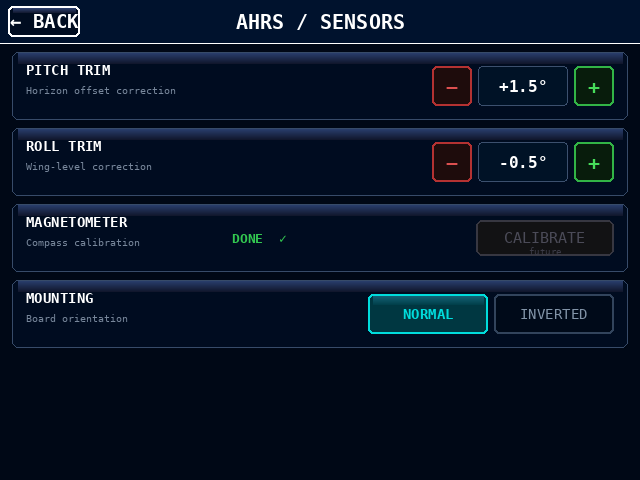
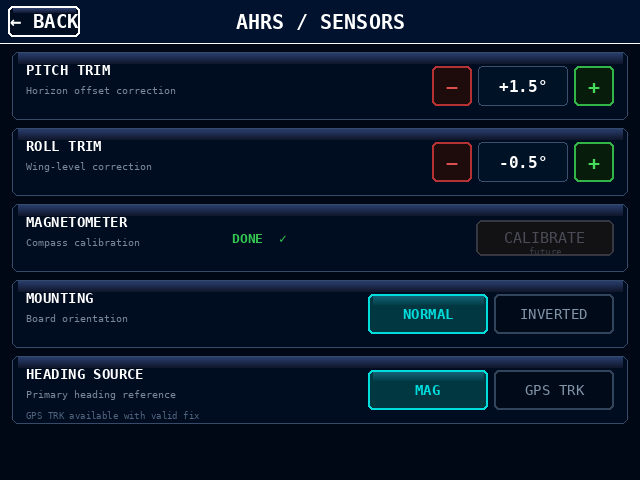
Add stale-data timeout and GPS-slaved heading source
Stale-data timeout (STALE_TIMEOUT_S = 3 s):
- Track _link_lost_t in main loop; when NO LINK persists beyond
  STALE_TIMEOUT_S the data_stale flag is raised.
- render() overrides ahrs_ok=False when data_stale, causing the AI and
  heading strip to receive the AHRS FAIL red-X treatment.
- On reconnect, _link_lost_t is cleared immediately.

GPS-slaved heading source (AHRS / Sensors screen → HEADING SOURCE):
- disp["ss"]["hdg_src"]: "mag" (default) or "gps"
- New Row 4 in draw_ahrs_setup / ahrs_setup_hit with MAG / GPS TRK
  segment buttons and a note that GPS TRK requires a valid fix.
- In render(), hdg = disp["track"] when hdg_src=="gps" and gps_ok,
  otherwise disp["yaw"].
- draw_heading_tape: GPS TRK mode suppresses the magenta track pointer
  (hdg IS track) and shows a cyan two-line readout ("133°" + "TRK").
- draw_status_badges: GPS TRK shows a dim cyan "GPS TRK" badge on the
  right when the mode is active and GPS has a fix.

Preview updates:
- preview_setup_ahrs.png regenerated with hdg_src field
- New preview_setup_ahrs_gpstrk.png — AHRS screen with GPS TRK selected
- New preview_gps_trk_mode.png — PFD with GPS TRK active (cyan box, badge)

https://claude.ai/code/session_017SH8gTHM3ctk1qfSPqffyG

Changed region(s): [[0.0312, 0.7188, 1.0, 0.875]]

diff --git a/pi_display/pfd.py b/pi_display/pfd.py
@@ -109,6 +109,7 @@ disp["ds"] = {                      # display settings
 disp["ss"] = {                      # AHRS / sensor settings
     "pitch_trim": 0.0, "roll_trim": 0.0,
     "mag_cal":    "idle", "mounting": "normal",
+    "hdg_src":    "mag",   # "mag" | "gps"  — heading source (magnetic or GPS track)
 }
 disp["cs"] = {                      # connectivity settings
     "ahrs_url":  PICO_URL, "wifi_ssid": "AHRS-Link",
@@ -119,7 +120,8 @@ disp["cs"] = {                      # connectivity settings
 SMOOTH_K = 0.25   # IIR coefficient (higher = faster response)
 
 # ── Module-level SSE handle (set in main, restarted by handle_event) ─────────
-_sse_client = None
+_sse_client  = None
+_link_lost_t = None   # monotonic timestamp when link first dropped (None if connected)
 
 
 # ── Connectivity helpers ──────────────────────────────────────────────────────
@@ -957,8 +959,13 @@ _CARDINALS = {0: "N", 45: "NE", 90: "E", 135: "SE",
               180: "S", 225: "SW", 270: "W", 315: "NW"}
 
 
-def draw_heading_tape(surf, hdg, hdg_bug=None, track=None, gps_ok=False):
-    """Bottom heading strip with bug and current-heading box."""
+def draw_heading_tape(surf, hdg, hdg_bug=None, track=None, gps_ok=False, hdg_src="mag"):
+    """Bottom heading strip with bug and current-heading box.
+
+    hdg_src="gps" means hdg is already the GPS track value; the magenta track
+    pointer is suppressed (it would just sit at centre) and the readout box
+    shows a small "TRK" sub-label instead of "MAG".
+    """
     hdg_surf = pygame.Surface((DISPLAY_W, HDG_H), pygame.SRCALPHA)
     hdg_surf.fill((0, 8, 22, 210))
     surf.blit(hdg_surf, (0, HDG_Y))
@@ -992,8 +999,9 @@ def draw_heading_tape(surf, hdg, hdg_bug=None, track=None, gps_ok=False):
         pygame.gfxdraw.filled_polygon(surf, bug, CYAN)
         pygame.gfxdraw.aapolygon(surf, bug, CYAN)
 
-    # GPS track pointer (magenta, when GPS OK)
-    if gps_ok and track is not None:
+    # GPS track pointer (magenta, when GPS OK and heading source is MAG)
+    # Suppressed in GPS TRK mode — hdg is already the track value.
+    if gps_ok and track is not None and hdg_src != "gps":
         off = ((track - hdg + 180) % 360) - 180
         tx = int(CX + off * PX_PER_DEG)
         if 0 < tx < DISPLAY_W:
@@ -1015,8 +1023,14 @@ def draw_heading_tape(surf, hdg, hdg_bug=None, track=None, gps_ok=False):
                       (tx,      by2 + bh),
                       (bx,      by2 + bh)], {0, 1, 2, 6})
     pygame.gfxdraw.filled_polygon(surf, pts_h, (0, 0, 0))
-    pygame.gfxdraw.aapolygon(surf, pts_h, WHITE)
-    _text(surf, f"{round(hdg) % 360:03d}\u00b0", 17, WHITE, cx=CX, cy=by2 + bh // 2)
+    pygame.gfxdraw.aapolygon(surf, pts_h, WHITE if hdg_src == "mag" else CYAN)
+    if hdg_src == "gps":
+        # Two-line readout: heading value + "TRK" sub-label in cyan
+        _text(surf, f"{round(hdg) % 360:03d}\u00b0", 14, CYAN, bold=True,
+              cx=CX, cy=by2 + 8)
+        _text(surf, "TRK", 8, CYAN, cx=CX, cy=by2 + bh - 4)
+    else:
+        _text(surf, f"{round(hdg) % 360:03d}\u00b0", 17, WHITE, cx=CX, cy=by2 + bh // 2)
 
 
 # ── Terrain / obstacle proximity alert ───────────────────────────────────────
@@ -1116,13 +1130,15 @@ def draw_terrain_alert(surf):
 
 
 # ── Status badges ─────────────────────────────────────────────────────────────
-def draw_status_badges(surf, ahrs_ok, gps_ok, baro_ok, baro_src, sats, connected):
+def draw_status_badges(surf, ahrs_ok, gps_ok, baro_ok, baro_src, sats, connected,
+                       hdg_src="mag"):
     """
     Badges are shown only when something requires pilot attention.
     Nominal state = clean strip.  Problem state = badge appears.
 
     Left  (from AI_X): AHRS FAIL, NO LINK, NO TER, NO OBS, EXP OBS
-    Right (to ALT_X):  NO GPS, GPS ALT (only when baro absent)
+    Right (to ALT_X):  GPS TRK (info), GPS ALT (only when baro absent),
+                       GPS Xsat (acquiring), NO GPS (absent)
     """
     f10 = _get_font(10)
 
@@ -1160,9 +1176,14 @@ def draw_status_badges(surf, ahrs_ok, gps_ok, baro_ok, baro_src, sats, connected
         pygame.draw.rect(surf, bg, (rx, 4, w, 15))
         _text(surf, text, 10, fg, x=rx + 5, y=5)
 
+    # GPS-slaved heading mode indicator — dim cyan info badge (rightmost)
+    if hdg_src == "gps" and gps_ok:
+        badge_r("GPS TRK", (0, 60, 90), (80, 190, 220))
+
     # Show GPS ALT only when baro sensor is absent (pilot needs to know alt source)
     if not baro_ok:
         badge_r("GPS ALT", (80, 80, 0), (220, 220, 100))
+
     # GPS state:
     #   fix valid          → no badge (clean)
     #   satellites visible → amber sat-count (acquiring, no fix yet)
@@ -2126,6 +2147,20 @@ def draw_ahrs_setup(surf, ss):
     for i, (v, lbl) in enumerate(opts):
         _seg_btn(surf, rx+i*(120+_DSP_BTN_G), ry, 120, _DSP_BTN_H, lbl, v==cur)
 
+    # Row 4: Heading source (MAG compass vs GPS track)
+    bx, by, bw, bh = _setting_row(surf, 4, "HEADING SOURCE",
+                                   "Primary heading reference")
+    cur_src = ss.get("hdg_src", "mag")
+    opts_src = [("mag", "MAG"), ("gps", "GPS TRK")]
+    total_src = 2*120 + _DSP_BTN_G
+    rx = bx + bw - total_src - 14
+    ry = by + (bh - _DSP_BTN_H) // 2
+    for i, (v, lbl) in enumerate(opts_src):
+        _seg_btn(surf, rx+i*(120+_DSP_BTN_G), ry, 120, _DSP_BTN_H, lbl, v==cur_src)
+    # Dim note: GPS TRK only available when GPS has a fix
+    _text(surf, "GPS TRK available with valid fix", 9, (80, 100, 125),
+          x=bx + 14, y=by + bh - 14)
+
 
 def ahrs_setup_hit(x, y, ss):
     if 8 <= x <= 80 and 6 <= y <= 37:
@@ -2133,7 +2168,7 @@ def ahrs_setup_hit(x, y, ss):
     bw = DISPLAY_W - 2*_SS_MX
     total = _SS_TRIM_SW + _SS_TRIM_G + _SS_TRIM_VW + _SS_TRIM_G + _SS_TRIM_SW
     rx_trim = _SS_MX + bw - total - 14
-    for ri in range(4):
+    for ri in range(5):
         by = _ss_row_y(ri)
         if not (by <= y <= by+_SS_RH):
             continue
@@ -2158,6 +2193,14 @@ def ahrs_setup_hit(x, y, ss):
                 if rx+i*(120+_DSP_BTN_G) <= x <= rx+i*(120+_DSP_BTN_G)+120:
                     if ry <= y <= ry+_DSP_BTN_H:
                         return f"set:mounting:{v}"
+        elif ri == 4:
+            total_src = 2*120 + _DSP_BTN_G
+            rx = bx + bw - total_src - 14
+            ry = by + (_SS_RH - _DSP_BTN_H) // 2
+            for i, v in enumerate(("mag", "gps")):
+                if rx+i*(120+_DSP_BTN_G) <= x <= rx+i*(120+_DSP_BTN_G)+120:
+                    if ry <= y <= ry+_DSP_BTN_H:
+                        return f"set:hdg_src:{v}"
     return None
 
 
@@ -2985,7 +3028,7 @@ def draw_obstacle_symbols(surf, ai_rect, lat, lon, alt_ft,
 
 
 # ── Main render function ──────────────────────────────────────────────────────
-def render(surf, demo_mode, connected):
+def render(surf, demo_mode, connected, data_stale=False):
     mode = disp.get("mode", "pfd")
 
     # ── Full-screen replacement screens (no PFD behind them) ─────────────────
@@ -3011,7 +3054,6 @@ def render(surf, demo_mode, connected):
 
     roll    = disp["roll"]
     pitch   = disp["pitch"]
-    hdg     = disp["yaw"]
     alt     = disp["alt"]
     speed   = disp["speed"]
     vspeed  = disp["vspeed"]
@@ -3038,6 +3080,19 @@ def render(surf, demo_mode, connected):
     else:
         pitch = pitch + pitch_trim
         roll  = roll  + roll_trim
+
+    # ── Stale-data timeout: no link for > STALE_TIMEOUT_S → treat as AHRS fail
+    if data_stale:
+        ahrs_ok = False
+
+    # ── Heading source selection ──────────────────────────────────────────────
+    # MAG  (default): use magnetometer/gyro yaw from AHRS
+    # GPS TRK:        use GPS ground track as heading reference (requires fix)
+    hdg_src = ss.get("hdg_src", "mag")
+    if hdg_src == "gps" and gps_ok:
+        hdg = disp["track"]
+    else:
+        hdg = disp["yaw"]
 
     # ── Unit conversions ──────────────────────────────────────────────────────
     ds = disp["ds"]
@@ -3085,7 +3140,7 @@ def render(surf, demo_mode, connected):
     draw_alt_tape(surf, alt_d, vspeed, baro_hpa, baro_src, alt_bug_d)
 
     # 5. Heading tape
-    draw_heading_tape(surf, hdg, hdg_bug, track, gps_ok)
+    draw_heading_tape(surf, hdg, hdg_bug, track, gps_ok, hdg_src=hdg_src)
 
     # 6. Roll arc
     draw_roll_arc(surf, roll)
@@ -3097,7 +3152,8 @@ def render(surf, demo_mode, connected):
     draw_slip_ball(surf, ay)
 
     # 9. Status badges
-    draw_status_badges(surf, ahrs_ok, gps_ok, baro_ok, baro_src, sats, connected)
+    draw_status_badges(surf, ahrs_ok, gps_ok, baro_ok, baro_src, sats, connected,
+                       hdg_src=hdg_src)
 
     # 9b. Terrain / obstacle proximity alert banner (centre of badge strip)
     draw_terrain_alert(surf)
@@ -3215,9 +3271,11 @@ def main():
     pygame.display.set_caption("PFD")
     clock = pygame.time.Clock()
 
-    demo_mode = args.demo
-    demo      = DemoState() if demo_mode else None
-    connected = False
+    demo_mode  = args.demo
+    demo       = DemoState() if demo_mode else None
+    connected  = False
+    data_stale = False
+    global _link_lost_t
 
     if not demo_mode:
         global _sse_client
@@ -3259,6 +3317,14 @@ def main():
         if _sse_client:
             connected = _sse_client.connected
             disp["cs"]["ahrs_ok"] = connected
+            # Stale-data timeout: track when link first dropped
+            if not connected:
+                if _link_lost_t is None:
+                    _link_lost_t = time.monotonic()
+                data_stale = (time.monotonic() - _link_lost_t) > STALE_TIMEOUT_S
+            else:
+                _link_lost_t = None
+                data_stale   = False
 
         # 2-finger hold → enter setup screen (EXIT button returns to PFD)
         if (_multitouch_t0 is not None
@@ -3270,7 +3336,7 @@ def main():
             _multitouch_t0 = None
 
         # Render
-        render(surf, demo_mode, connected)
+        render(surf, demo_mode, connected, data_stale=data_stale)
         pygame.display.flip()
         clock.tick(TARGET_FPS)
 

diff --git a/tools/preview_640x480.py b/tools/preview_640x480.py
@@ -240,7 +240,7 @@ def draw_scene(roll, pitch, hdg, alt, speed, vspeed, ay,
                hdg_bug, alt_bug, label, filename,
                gs_bug=None, ahrs_ok=True, gps_ok=True, baro_ok=False, sats=8,
                baro_hpa=1013.25, terrain_alert=0,
-               no_terrain=False, obs_state="ok"):
+               no_terrain=False, obs_state="ok", hdg_src="mag"):
 
     img  = Image.new('RGB', (W, H), (0, 0, 0))
     draw = ImageDraw.Draw(img)
@@ -592,15 +592,27 @@ def draw_scene(roll, pitch, hdg, alt, speed, vspeed, ay,
                       (tx,       by2+bh2),
                       (bx,       by2+bh2)], {0, 1, 2, 6})
     draw.polygon(pts_h, fill=(0, 0, 0))
-    draw.line(pts_h + [pts_h[0]], fill=WHITE, width=2)
-    _hbf  = fnt(17)
+    _hdg_box_col = CYAN if hdg_src == "gps" else WHITE
+    draw.line(pts_h + [pts_h[0]], fill=_hdg_box_col, width=2)
     _hstr = f"{round(hdg)%360:03d}\u00b0"
-    _hbb  = draw.textbbox((0, 0), _hstr, font=_hbf)   # (l, t, r, b)
-    _htw  = _hbb[2] - _hbb[0]
-    _hth  = _hbb[3] - _hbb[1]
-    draw.text((CX - _htw // 2 - _hbb[0],
-               by2 + (bh2 - _hth) // 2 - _hbb[1]),
-              _hstr, fill=WHITE, font=_hbf)
+    if hdg_src == "gps":
+        # Two-line: heading at top half, TRK sub-label at bottom
+        _hbf = fnt(14, bold=True)
+        _hbb = draw.textbbox((0, 0), _hstr, font=_hbf)
+        _htw = _hbb[2] - _hbb[0]
+        draw.text((CX - _htw // 2 - _hbb[0], by2 + 1 - _hbb[1]),
+                  _hstr, fill=CYAN, font=_hbf)
+        _trkf = fnt(8)
+        _trkw = int(draw.textlength("TRK", font=_trkf))
+        draw.text((CX - _trkw // 2, by2 + bh2 - 11), "TRK", fill=CYAN, font=_trkf)
+    else:
+        _hbf  = fnt(17)
+        _hbb  = draw.textbbox((0, 0), _hstr, font=_hbf)
+        _htw  = _hbb[2] - _hbb[0]
+        _hth  = _hbb[3] - _hbb[1]
+        draw.text((CX - _htw // 2 - _hbb[0],
+                   by2 + (bh2 - _hth) // 2 - _hbb[1]),
+                  _hstr, fill=WHITE, font=_hbf)
 
     # ── 6. ROLL ARC (rendered at 2× for anti-aliasing) ───────────────────────
     # Drawing at 2× then scaling down via LANCZOS gives smooth arc and shapes.
@@ -752,6 +764,9 @@ def draw_scene(roll, pitch, hdg, alt, speed, vspeed, ay,
         draw.rectangle([(bx_r, 4), (bx_r+tw, 19)], fill=bg)
         draw.text((bx_r+5, 5), text, fill=fg, font=_bf)
 
+    # GPS TRK mode info badge (rightmost, dim cyan)
+    if hdg_src == "gps" and gps_ok:
+        badge_r("GPS TRK", (0, 60, 90), (80, 190, 220))
     if not baro_ok:
         badge_r("GPS ALT", (80, 80, 0), (220, 220, 100))
     if not gps_ok:
@@ -1330,7 +1345,8 @@ _SS_MAG_LABELS = {
 
 def draw_ahrs_screen(filename, ss=None):
     if ss is None:
-        ss = {"pitch_trim":0.0,"roll_trim":0.0,"mag_cal":"idle","mounting":"normal"}
+        ss = {"pitch_trim":0.0,"roll_trim":0.0,"mag_cal":"idle","mounting":"normal",
+              "hdg_src":"mag"}
     img  = Image.new('RGB',(W,H),(0,8,22))
     draw = ImageDraw.Draw(img)
     _screen_header_p(draw, "AHRS / SENSORS")
@@ -1378,6 +1394,18 @@ def draw_ahrs_screen(filename, ss=None):
     ry = by + (bh - _DSP_BTN_H) // 2
     for i,(v,lbl) in enumerate(opts):
         _seg_btn_p(draw, rx+i*(120+_DSP_BTN_G), ry, 120, _DSP_BTN_H, lbl, v==cur)
+
+    # Row 4: heading source
+    bx, by, bw, bh = _setting_row_p(draw, 4, "HEADING SOURCE", "Primary heading reference")
+    cur_src = ss.get("hdg_src", "mag")
+    opts_src = [("mag","MAG"),("gps","GPS TRK")]
+    total_src = 2*120 + _DSP_BTN_G
+    rx = bx + bw - total_src - 14
+    ry = by + (bh - _DSP_BTN_H) // 2
+    for i,(v,lbl) in enumerate(opts_src):
+        _seg_btn_p(draw, rx+i*(120+_DSP_BTN_G), ry, 120, _DSP_BTN_H, lbl, v==cur_src)
+    draw.text((bx+14, by+bh-14), "GPS TRK available with valid fix",
+              fill=(80,100,125), font=fnt(9))
 
     img.save(filename)
     print(f"Saved {filename}")
@@ -1867,7 +1895,11 @@ draw_obstacle_data_screen(os.path.join(OUT, "preview_obstacle_downloading.png"),
                           dl_status="Downloading\u2026 38%  (7,440 / 19,584 KB)")
 draw_display_screen(os.path.join(OUT, "preview_setup_display.png"))
 draw_ahrs_screen(os.path.join(OUT, "preview_setup_ahrs.png"),
-                 ss={"pitch_trim":1.5,"roll_trim":-0.5,"mag_cal":"done","mounting":"normal"})
+                 ss={"pitch_trim":1.5,"roll_trim":-0.5,"mag_cal":"done","mounting":"normal",
+                     "hdg_src":"mag"})
+draw_ahrs_screen(os.path.join(OUT, "preview_setup_ahrs_gpstrk.png"),
+                 ss={"pitch_trim":0.0,"roll_trim":0.0,"mag_cal":"idle","mounting":"normal",
+                     "hdg_src":"gps"})
 draw_connectivity_screen(os.path.join(OUT, "preview_setup_connectivity.png"),
                          cs={"ahrs_url":"http://192.168.4.1","wifi_ssid":"AHRS-Link",
                              "wifi_pass":"mypassword",
@@ -1894,6 +1926,17 @@ draw_scene(
     filename=os.path.join(OUT, "preview_badges_exp_obs.png"),
     ahrs_ok=True, gps_ok=True, baro_ok=False, sats=8,
     no_terrain=False, obs_state="expired",
+)
+
+# GPS TRK heading mode
+draw_scene(
+    roll=0, pitch=2, hdg=133, alt=8499.7, speed=114.7,
+    vspeed=0, ay=0.0, hdg_bug=133, alt_bug=8500,
+    gs_bug=115,
+    label="GPS TRK heading mode — track slaved to GPS",
+    filename=os.path.join(OUT, "preview_gps_trk_mode.png"),
+    ahrs_ok=True, gps_ok=True, baro_ok=False, sats=8,
+    hdg_src="gps",
 )
 
 print("Done.")

diff --git a/pi_display/config.py b/pi_display/config.py
@@ -87,7 +87,8 @@ DEMO_ALT = 8500.0   # ft MSL starting altitude
 DEMO_HDG = 133.0    # degrees
 
 # ── Touch / interaction ───────────────────────────────────────────────────────
-LONG_PRESS_MS = 800  # ms for long-press to enter setup
+LONG_PRESS_MS    = 800  # ms for long-press to enter setup
+STALE_TIMEOUT_S  = 3    # seconds after link loss before AHRS is marked failed
 
 # ── Try to import local overrides ─────────────────────────────────────────────
 try:
